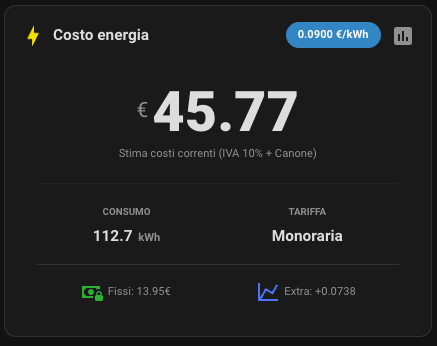
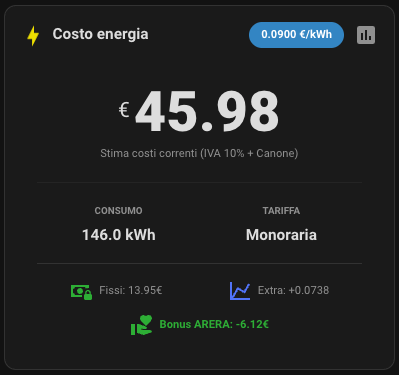
Support ARERA bonus and UI/stats updates
Add ARERA social bonus support and related UI/README updates.

Changes:
- README: updated example YAML with new fields (bonus_enabled, bonus_valore_giorno, grid_options, layout changes) and added documentation and a note about dynamic pro-rata bonus calculation. Images (card-main.png, card-stats.png) updated.
- src/italy-energy-bill-card.js: Editor UI now includes a switch and input to enable/configure daily bonus. Default config now includes bonus_enabled and bonus_valore_giorno. Calculation logic computes matured bonus as (daily_bonus * current_day) and subtracts it from the current total; displays bonus in footer and stats panels. Minor label/text updates, added disclaimer about historical data, grid/style tweaks and small CSS adjustments.

This implements a pro-rata daily bonus display so the card reflects the accrued ARERA social bonus throughout the month.

diff --git a/src/italy-energy-bill-card.js b/src/italy-energy-bill-card.js
@@ -118,7 +118,17 @@ class ItalyEnergyBillCardEditor extends LitElement {
           <div style="flex:1;"><div class="label">Perdite Rete (%)</div><input type="number" .value="${this._config.perdite_rete !== undefined ? this._config.perdite_rete : 10}" .configValue="${"perdite_rete"}" @input="${this._valueChanged}" class="styled-input"></div>
         </div>
 
-        <div class="section">6. Sensori Storici (Opzionali)</div>
+        <div class="section">6. Bonus Sociale ARERA</div>
+        <div class="row" style="align-items: center; justify-content: space-between; margin-bottom: 10px;">
+          <div class="label" style="margin:0;">Abilita Bonus</div>
+          <ha-switch .checked="${this._config.bonus_enabled}" .configValue="${"bonus_enabled"}" @change="${this._valueChanged}"></ha-switch>
+        </div>
+        ${this._config.bonus_enabled ? html`
+          <div class="label">Valore Giornaliero Sconto (€/giorno)</div>
+          <input type="number" step="0.0001" .value="${this._config.bonus_valore_giorno !== undefined ? this._config.bonus_valore_giorno : 0}" .configValue="${"bonus_valore_giorno"}" @input="${this._valueChanged}" class="styled-input">
+        ` : ''}
+
+        <div class="section">7. Sensori Storici (Opzionali)</div>
         <ha-entity-picker label="Consumo Giornaliero" .hass="${this.hass}" .value="${this._config.consumo_giornaliero_entity}" .configValue=${"consumo_giornaliero_entity"} @value-changed="${this._valueChanged}"></ha-entity-picker>
         <ha-entity-picker label="Consumo Settimanale" .hass="${this.hass}" .value="${this._config.consumo_settimanale_entity}" .configValue=${"consumo_settimanale_entity"} @value-changed="${this._valueChanged}"></ha-entity-picker>
         <ha-entity-picker label="Consumo Trimestrale" .hass="${this.hass}" .value="${this._config.consumo_trimestrale_entity}" .configValue=${"consumo_trimestrale_entity"} @value-changed="${this._valueChanged}"></ha-entity-picker>
@@ -175,7 +185,7 @@ class ItalyEnergyBillCard extends LitElement {
   static getConfigElement() { return document.createElement("italy-energy-bill-card-editor"); }
 
   setConfig(config) {
-    this.config = { title: "Costo Energia", tipo_costo: "mono", iva: 10, perdite_rete: 10, canone_tv: 0, contatore_kw: 3, prezzo_kw: 1.98, layout_compatto: false, ...config };
+    this.config = { title: "Costo Energia", tipo_costo: "mono", iva: 10, perdite_rete: 10, canone_tv: 0, contatore_kw: 3, prezzo_kw: 1.98, layout_compatto: false, bonus_enabled: false, bonus_valore_giorno: 0, ...config };
   }
 
   _toggleStats() {
@@ -214,6 +224,12 @@ class ItalyEnergyBillCard extends LitElement {
         }
       }
     }
+
+    const bonusAbilitato = this.config.bonus_enabled || false;
+    const bonusGiorno = parseFloat(this.config.bonus_valore_giorno) || 0;
+    const oggi = new Date();
+    const giornoCorrente = oggi.getDate();
+    const scontoBonusMaturato = bonusAbilitato ? (bonusGiorno * giornoCorrente) : 0;
 
     const hasHistoricalSensors = 
       this.config.consumo_giornaliero_entity || 
@@ -267,7 +283,9 @@ class ItalyEnergyBillCard extends LitElement {
     const spesaImposte = (consumo * accise) + (consumo * oneri);
     const imponibileAttuale = spesaEnergia + spesaTrasporto + spesaImposte;
     const quotaIva = imponibileAttuale * (parseFloat(this.config.iva) / 100);
-    const totaleCorrente = imponibileAttuale + quotaIva + canoneTV;
+    
+    const totaleCorrenteOriginale = imponibileAttuale + quotaIva + canoneTV;
+    const totaleCorrente = totaleCorrenteOriginale - scontoBonusMaturato;
     const costoMedioKwh = consumo > 0 ? ((imponibileAttuale + quotaIva) / consumo) : 0;
 
     const stimaCostoStorico = (valKwh) => {
@@ -328,6 +346,15 @@ class ItalyEnergyBillCard extends LitElement {
               <div class="footer-item"><ha-icon icon="mdi:cash-lock" class="icon-fissi"></ha-icon><span class="footer-text">Fissi: ${totaleFissi.toFixed(2)}€</span></div>
               <div class="footer-item"><ha-icon icon="mdi:chart-line" class="icon-spread"></ha-icon><span class="footer-text">Extra: +${totaleVariabiliExtra.toFixed(4)}</span></div>
             </div>
+
+            ${bonusAbilitato ? html`
+            <div class="footer" style="border-top: none; padding-top: 5px; margin-top: 5px;">
+              <div class="footer-item">
+                <ha-icon icon="mdi:hand-heart" style="color: #4caf50;"></ha-icon>
+                <span class="footer-text" style="color: #4caf50; font-weight: bold;">Bonus ARERA: -${scontoBonusMaturato.toFixed(2)}€</span>
+              </div>
+            </div>
+            ` : ''}
           </div>
         `}
 
@@ -343,7 +370,7 @@ class ItalyEnergyBillCard extends LitElement {
                 <div class="stats-title"><ha-icon icon="mdi:history" class="section-icon"></ha-icon> Confronto Mesi</div>
                 <div class="stats-grid grid-2">
                     <div class="stats-col">
-                        <span>Mese Scorso</span>
+                        <span>Mese Scorso (Lordo)</span>
                         <b style="font-size: 1.1rem; color: var(--secondary-text-color);">${costoMesePrecedente}</b>
                         <span style="margin-top: 2px;">(${consumoMesePrecedente !== null ? consumoMesePrecedente + ' kWh' : '--'})</span>
                     </div>
@@ -386,13 +413,25 @@ class ItalyEnergyBillCard extends LitElement {
                 </div>
 
                 <div class="stats-section">
-                <div class="stats-title"><ha-icon icon="mdi:calculator" class="section-icon"></ha-icon> Indici di Costo Attuali</div>
+                <div class="stats-title"><ha-icon icon="mdi:calculator" class="section-icon"></ha-icon> Dettaglio Sconti e Indici</div>
                 <div class="stats-grid grid-4">
                     <div class="stats-col"><span>Spread</span><b>${spread.toFixed(4)} €</b></div>
                     <div class="stats-col"><span>Commerc.</span><b>${pcv.toFixed(1)} €</b></div>
                     <div class="stats-col"><span>Mat. Prima</span><b>${prezzoMP.toFixed(3)} €</b></div>
                     <div class="stats-col highlight"><span>Costo kwh</span><b>${costoMedioKwh.toFixed(3)} €</b></div>
                 </div>
+                ${bonusAbilitato ? html`
+                  <div class="stats-grid grid-1" style="margin-top: 10px;">
+                    <div class="stats-col" style="border: 1px solid #4caf50; padding: 10px;">
+                      <span style="margin:0; font-size: 0.7rem;">Sconto Bonus ARERA (maturato finora)</span>
+                      <b style="color: #4caf50; font-size: 1.1rem;">-${scontoBonusMaturato.toFixed(2)} €</b>
+                    </div>
+                  </div>
+                ` : ''}
+                </div>
+
+                <div class="disclaimer-stats" style="font-size: 0.7rem; color: var(--secondary-text-color); text-align: center; margin-top: 15px; font-style: italic; border-top: 1px solid var(--divider-color); padding-top: 10px;">
+                  I dati storici si basano sui sensori "Utility Meter" di Home Assistant. Le stime dei periodi (Giorno/Settimana/Ecc.) sono calcolate in base al costo medio al kWh del mese in corso.
                 </div>
             </div>
           </div>
@@ -417,7 +456,6 @@ class ItalyEnergyBillCard extends LitElement {
       .stats-btn { cursor: pointer; color: var(--secondary-text-color); transition: all 0.2s ease; }
       .stats-btn:hover { color: var(--primary-color); transform: translateY(-2px); }
       
-      /* --- ICONE FOOTER COLORATE --- */
       .icon-fissi { color: #4CAF50 !important; } 
       .icon-spread { color: #2196F3 !important; }
       
@@ -442,7 +480,6 @@ class ItalyEnergyBillCard extends LitElement {
       .compact-title { font-size: 0.95rem; font-weight: 500; color: inherit !important; white-space: nowrap; }
       .compact-total { font-size: 1.1rem; font-weight: bold; color: inherit !important; }
 
-      /* MODAL E STATS */
       .stats-modal { position: fixed; top: 0; left: 0; right: 0; bottom: 0; width: 100vw; height: 100vh; background: rgba(0, 0, 0, 0.7); backdrop-filter: blur(5px); z-index: 9999; display: flex; justify-content: center; align-items: center; }
       .stats-modal-content { background: var(--card-background-color); width: 90%; max-width: 500px; padding: 20px; border-radius: 16px; max-height: 85vh; overflow-y: auto; box-shadow: 0 10px 25px rgba(0,0,0,0.5); }
       .stats-header { display: flex; align-items: center; font-size: 1.1rem; font-weight: bold; margin-bottom: 15px; border-bottom: 1px solid var(--divider-color); padding-bottom: 10px; }
@@ -451,6 +488,7 @@ class ItalyEnergyBillCard extends LitElement {
       .section-icon { color: var(--primary-color); margin-right: 5px; }
       .stats-title { font-size: 0.85rem; font-weight: bold; display: flex; align-items: center; color: var(--primary-text-color); margin-bottom: 12px; text-transform: uppercase; }
       .stats-grid { display: grid; gap: 8px; }
+      .grid-1 { grid-template-columns: 1fr; }
       .grid-4 { grid-template-columns: repeat(4, 1fr); }
       .grid-2 { grid-template-columns: repeat(2, 1fr); } 
       .stats-col { display: flex; flex-direction: column; align-items: center; text-align: center; background: var(--secondary-background-color); padding: 10px 4px; border-radius: 8px; }

diff --git a/README.md b/README.md
@@ -122,25 +122,30 @@ Se preferisci l'editor di codice o vuoi copiare/incollare configurazioni preimpo
 
 ```yaml
 type: custom:italy-energy-bill-card
-title: Calcolo Bolletta
+consumo_entity: sensor.monthly_consumption
+p1_val: 0.09
+quota_fissa_mese: 13.96
+title: Costo energia
 modo_consumo: ent
-consumo_entity: sensor.energia_mensile
+consumo_val: 321
+perdite_rete: 10
+spread: 0.0123
+canone_tv: 9
 tipo_costo: mono
 modo_p1: val
-p1_val: 0.125
-spread: 0.015
-trasporto: 0.009
-oneri: 0.025
-accise: 0.0227
-pcv: 12
-fissi_rete: 1.8
-contatore_kw: 4.5
-prezzo_kw: 1.98
-canone_tv: 9
-iva: 10
-perdite_rete: 10
-consumo_giornaliero_entity: sensor.energia_giornaliera
-consumo_annuale_entity: sensor.energia_annuale
+trasporto: 0.018
+oneri: 0.0229
+accise: 0.0206
+pcv: 6.1
+fissi_rete: 1.91
+contatore_kw: "3"
+grid_options:
+  rows: auto
+  columns: 12
+layout: standard
+layout_compatto: true
+bonus_enabled: true
+bonus_valore_giorno: 0.51
 ```
 
 ### Tabella dei Parametri YAML
@@ -163,6 +168,27 @@ consumo_annuale_entity: sensor.energia_annuale
 | `iva` | Aliquota IVA applicata (%) | 10 (o 22) |
 | `perdite_rete` | Perdite di rete applicate alla mat. prima (%) | 10 |
 | `consumo_giornaliero_entity` | (Opzionale) Storico per le statistiche | es. `sensor.consumo_oggi` |
+| `bonus_enabled` | (Opzionale) Bonus Sociale | es. `bonus_enabled: true/false` |
+| `bonus_valore_giorno` | (Opzionale) Bonus giornaliero applicato per POD | es. `0.40` per il valore specifico fare riferimento alla tabella sul sito [Arera](https://www.arera.it/consumatori/bonus-sociale/bonus-sociale-per-disagio-economico/a-quanto-ammontano) |
+
+Ecco il testo pronto per essere copiato nel tuo file `README.md`. Ho usato una formattazione pulita con dei blocchi di citazione per far risaltare l'esempio numerico.
+
+---
+
+## 💡 Nota sul Calcolo Dinamico (Bonus Sociale e Totale)
+
+La card è progettata per essere **dinamica** e riflettere la spesa reale accumulata fino al momento esatto in cui la consulti. 
+
+A differenza di una bolletta statica, la card aggiorna il calcolo del **Bonus Sociale ARERA** in modalità "pro-rata" (giorno per giorno). Questo evita di vedere un totale falsato all'inizio del mese e permette di monitorare l'andamento della spesa in tempo reale.
+
+### Esempio di calcolo
+Se la card mostra un valore che sembra non corrispondere alla semplice sottrazione del bonus mensile intero, è perché sta ragionando sulla maturazione giornaliera:
+
+> **Situazione ipotetica:**
+> - **Giorno attuale:** 12 del mese X (quindi 12 giorni di bonus maturati).
+> - **Sconto maturato:** $0,51€ \times 12 \text{ giorni} = \mathbf{6,12€}$
+
+Questa logica garantisce che il risparmio cresca proporzionalmente insieme ai tuoi consumi durante tutto l'arco del mese.
 
 ## 💻 Sviluppo
 
